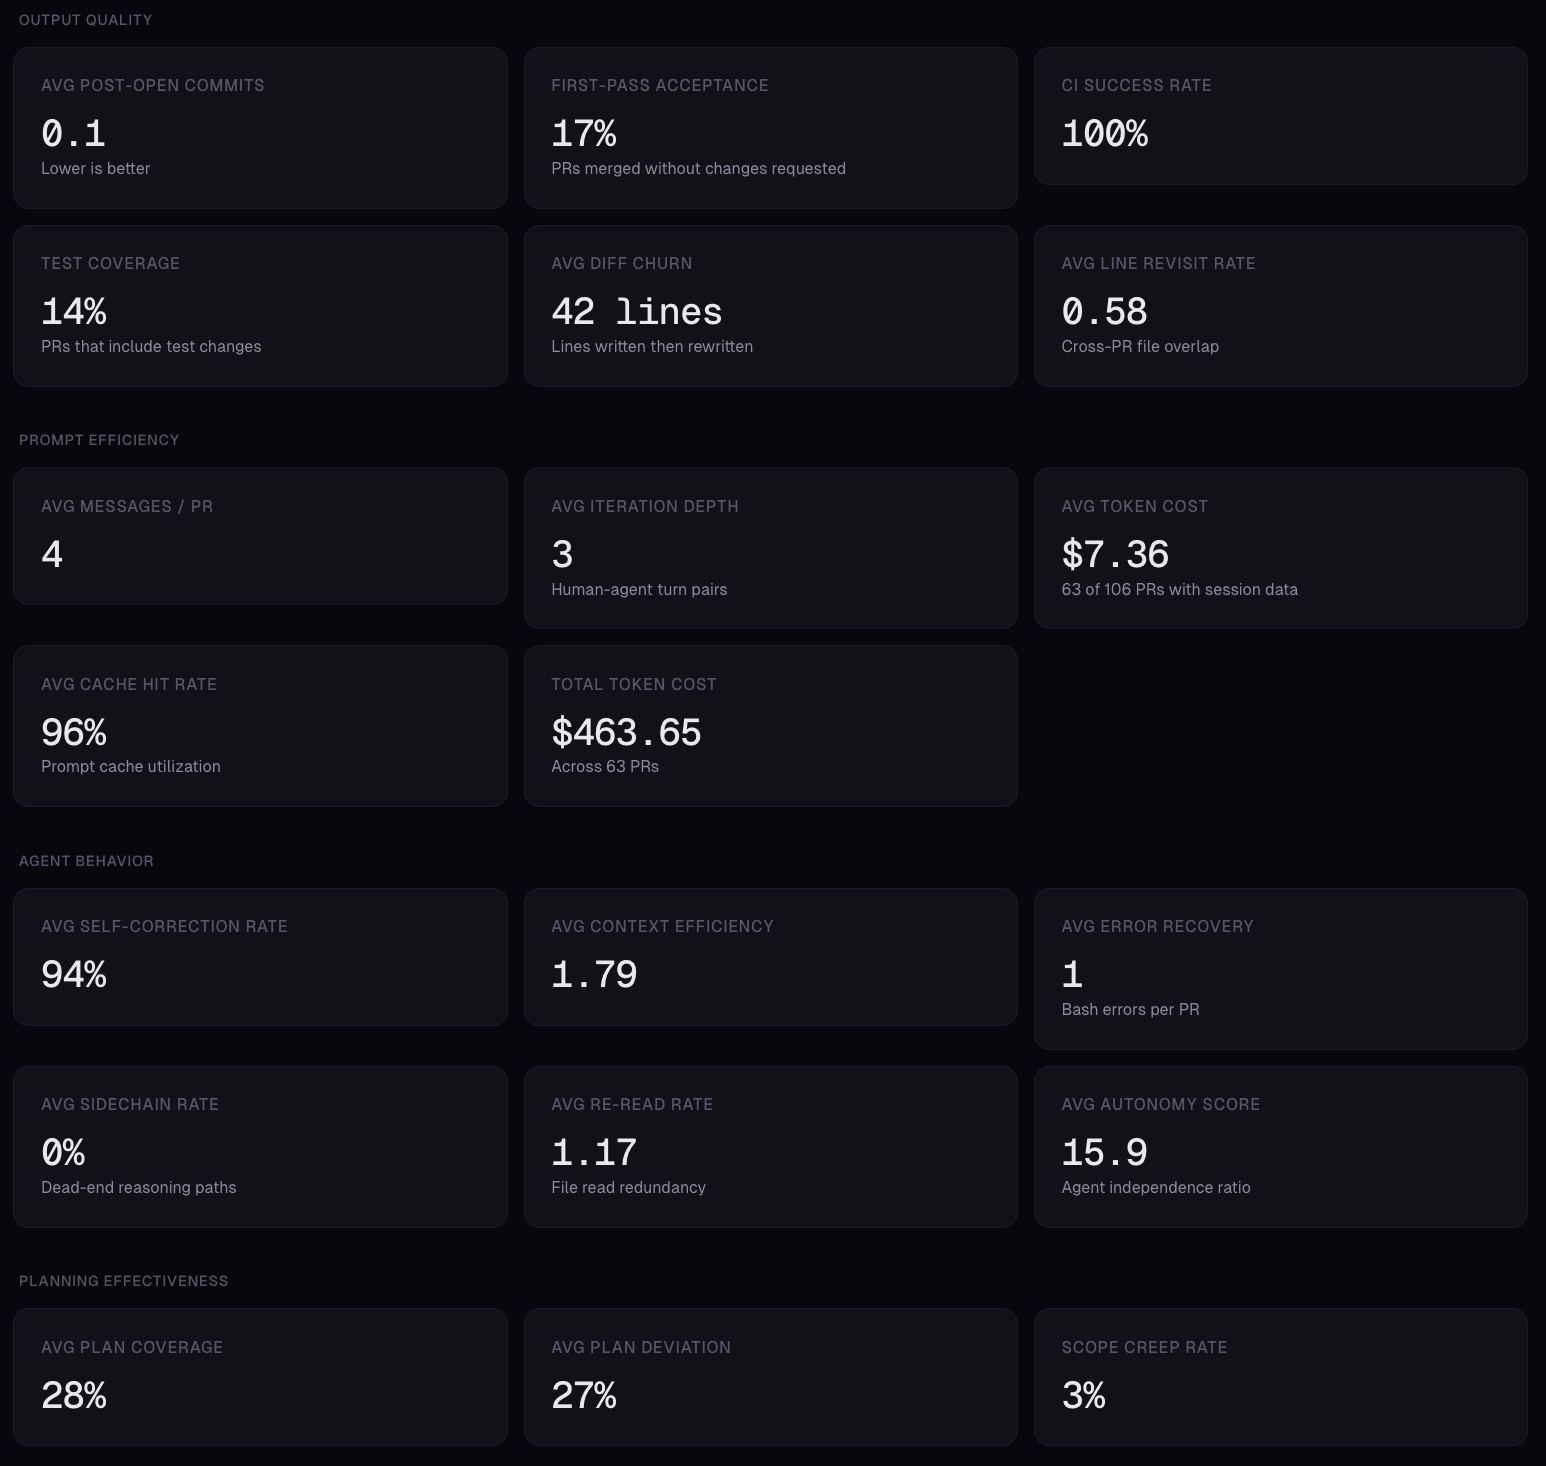
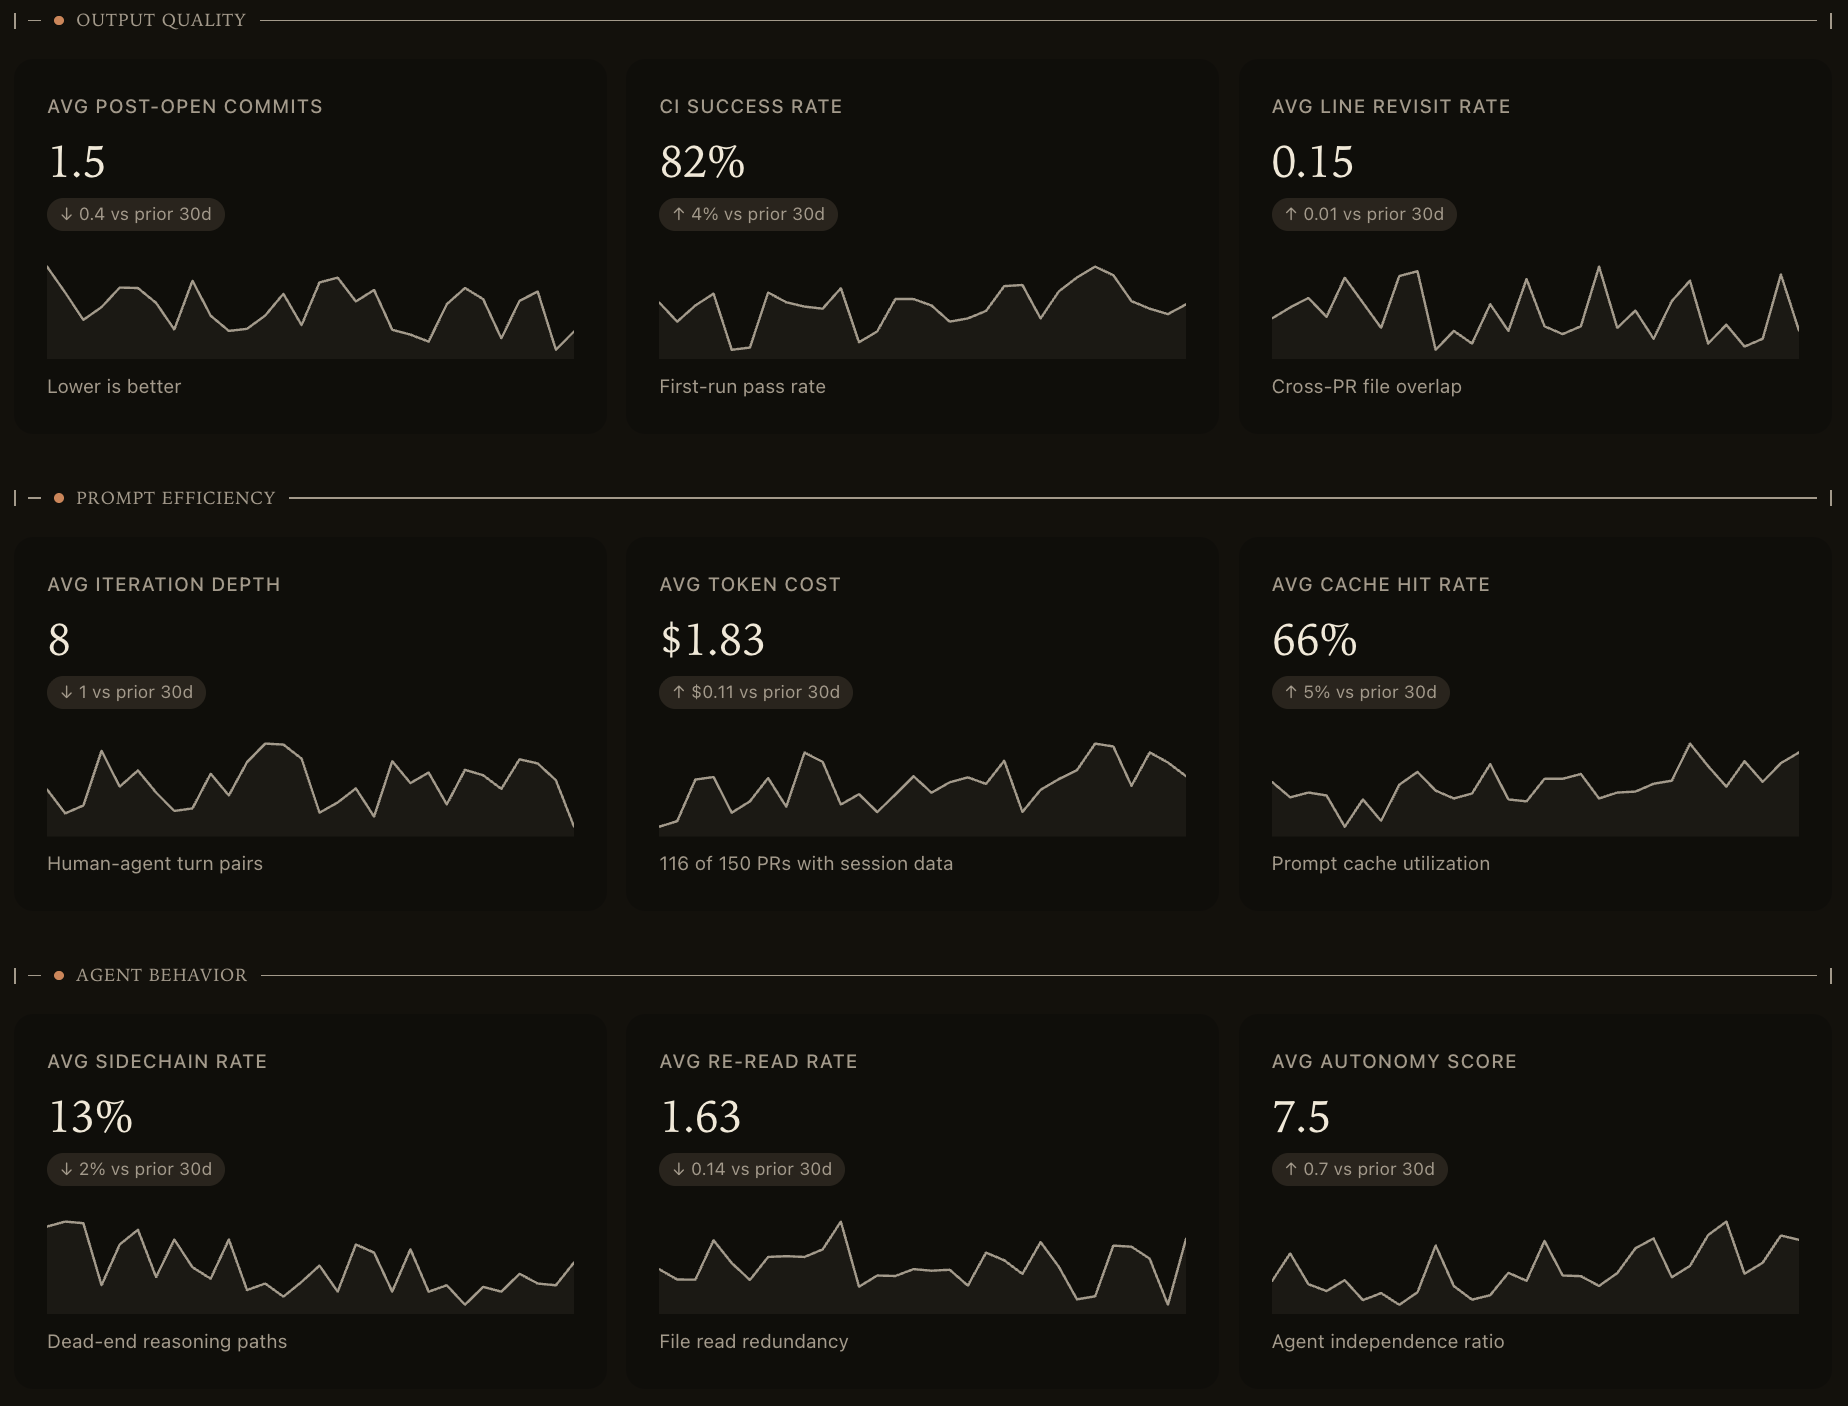
Surface demo page link on homepage with hover overlay
Updated homepage to link the dashboard preview to the interactive demo page, with a hover overlay that invites users to "Try the interactive demo →".

diff --git a/dashboard/src/app/(marketing)/page.tsx b/dashboard/src/app/(marketing)/page.tsx
@@ -50,13 +50,21 @@ export default async function LandingPage() {
           <p className="mb-6 text-center text-[13px] font-medium text-muted-foreground">
             Your dashboard at a glance
           </p>
-          <div className="overflow-hidden rounded-xl border border-border shadow-lg">
+          <Link
+            href="/demo"
+            className="group relative block overflow-hidden rounded-xl border border-border shadow-lg transition-shadow hover:shadow-xl"
+          >
             <img
               src="/dashboard-preview.png"
               alt="AX dashboard showing metric cards across Output Quality, Prompt Efficiency, and Agent Behavior categories"
               className="w-full"
             />
-          </div>
+            <div className="absolute inset-0 flex items-center justify-center bg-foreground/0 transition-colors group-hover:bg-foreground/60">
+              <span className="translate-y-2 text-lg font-semibold text-background opacity-0 transition-all group-hover:translate-y-0 group-hover:opacity-100">
+                Try the interactive demo &rarr;
+              </span>
+            </div>
+          </Link>
         </div>
       </section>
 
